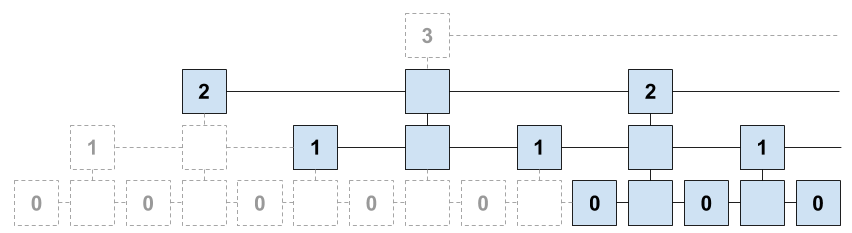
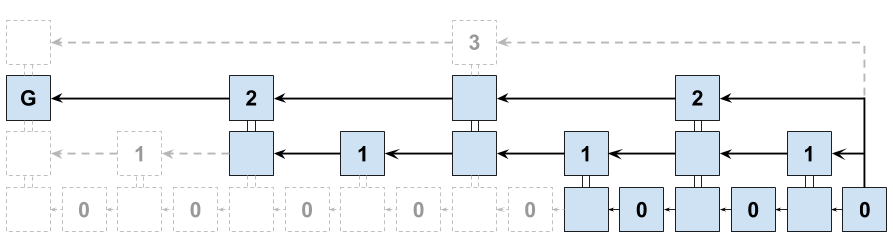
Improve figure showcasing non-interactive suffix proof

diff --git a/whitepaper/construction.tex b/whitepaper/construction.tex
@@ -121,15 +121,18 @@ Therefore, it does not hurt to add them to $\pi$ earlier.
 
 Figure~\ref{fig.nipopow} contains an example proof constructed for parameters
 $m = k = 3$. The top superchain level which contains at least $m$ blocks is
-level $\mu = 2$. For the $m$-sized suffix of that level, $5$ blocks of
-superblock level $1$ are included to span the same range. For the last $3$
-blocks of the $1$-superchain, blocks of level $0$ spanning the same range are
-included for support. Note that the superchain at a lower levels may reach
-closer to the end of the blockchain than a higher level.
+level $\mu = 2$. For the $m$-sized suffix of that level, $6$ blocks of
+superblock level $1$ are included to span the same range ($2m$ blocks at this
+level). For the last $3$ blocks of the $1$-superchain, blocks of level $0$
+spanning the same range are included (again $2m$ blocks at this level). Note
+that the superchain at a lower levels may reach closer to the end of the
+blockchain than a higher level. Level $3$ was not used, as it does not yet have
+a sufficient number of blocks.
 
 \begin{figure}[h]
     \caption{
-    NIPoPoW \emph{prefix} $\pi$ for $m = 3$.
+    NIPoPoW \emph{prefix} $\pi$ for $m = 3$. It includes the Genesis block $G$,
+    three $2$-superblocks, six $1$-superblocks, and six $0$-blocks.
     }
     \centering
     \iftwocolumn
